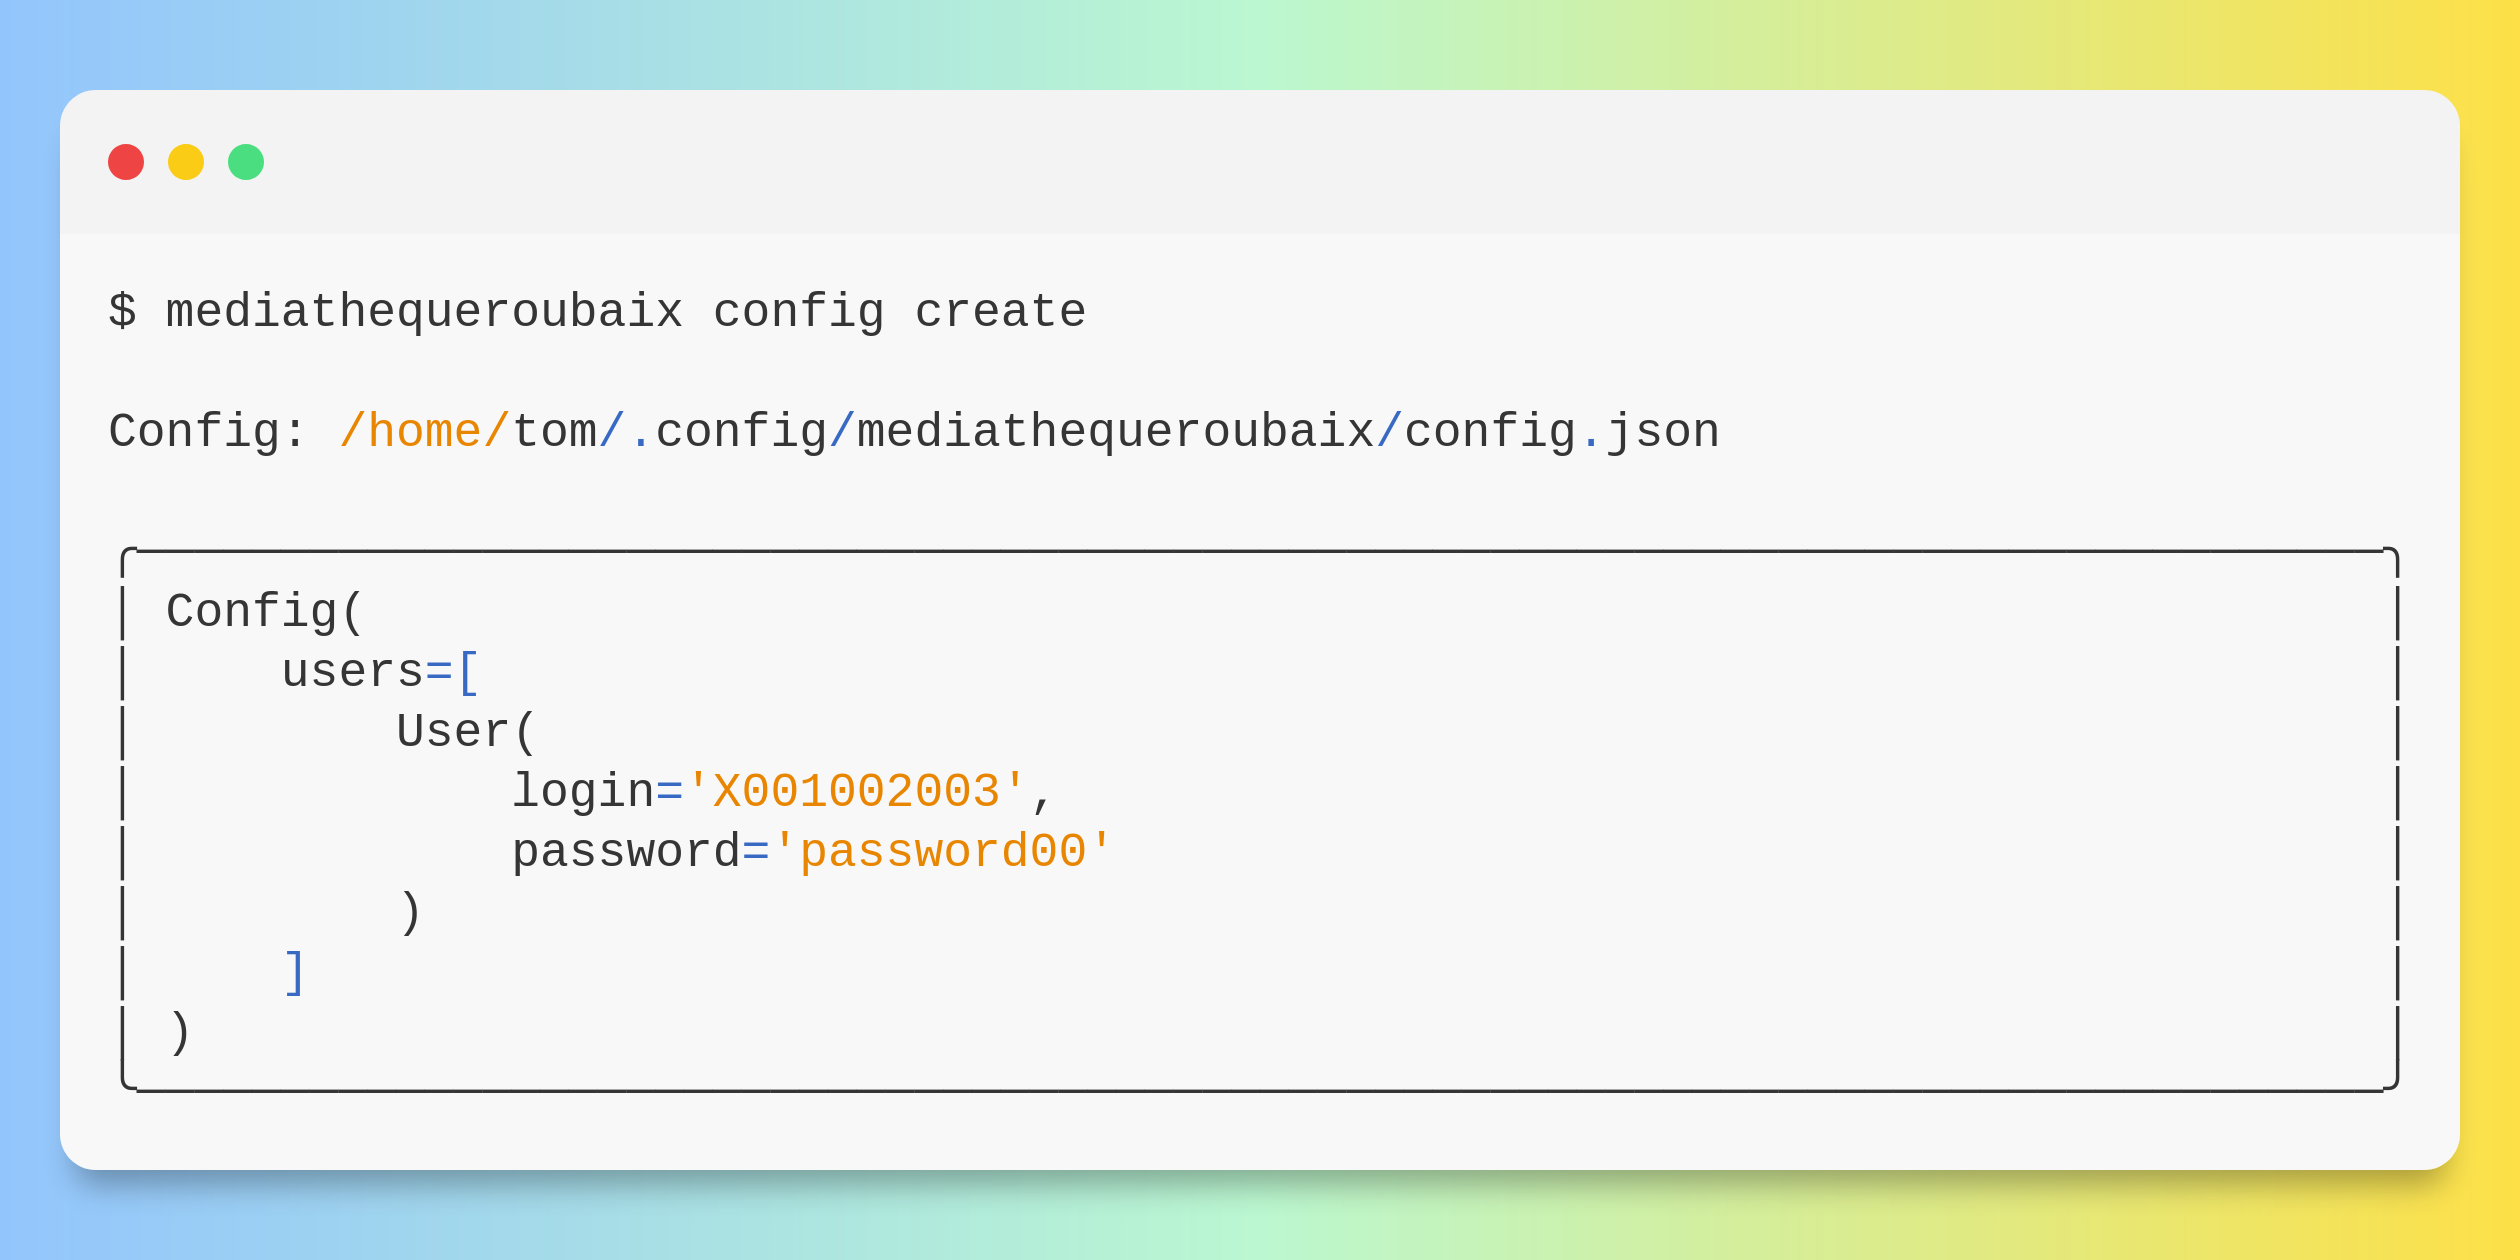
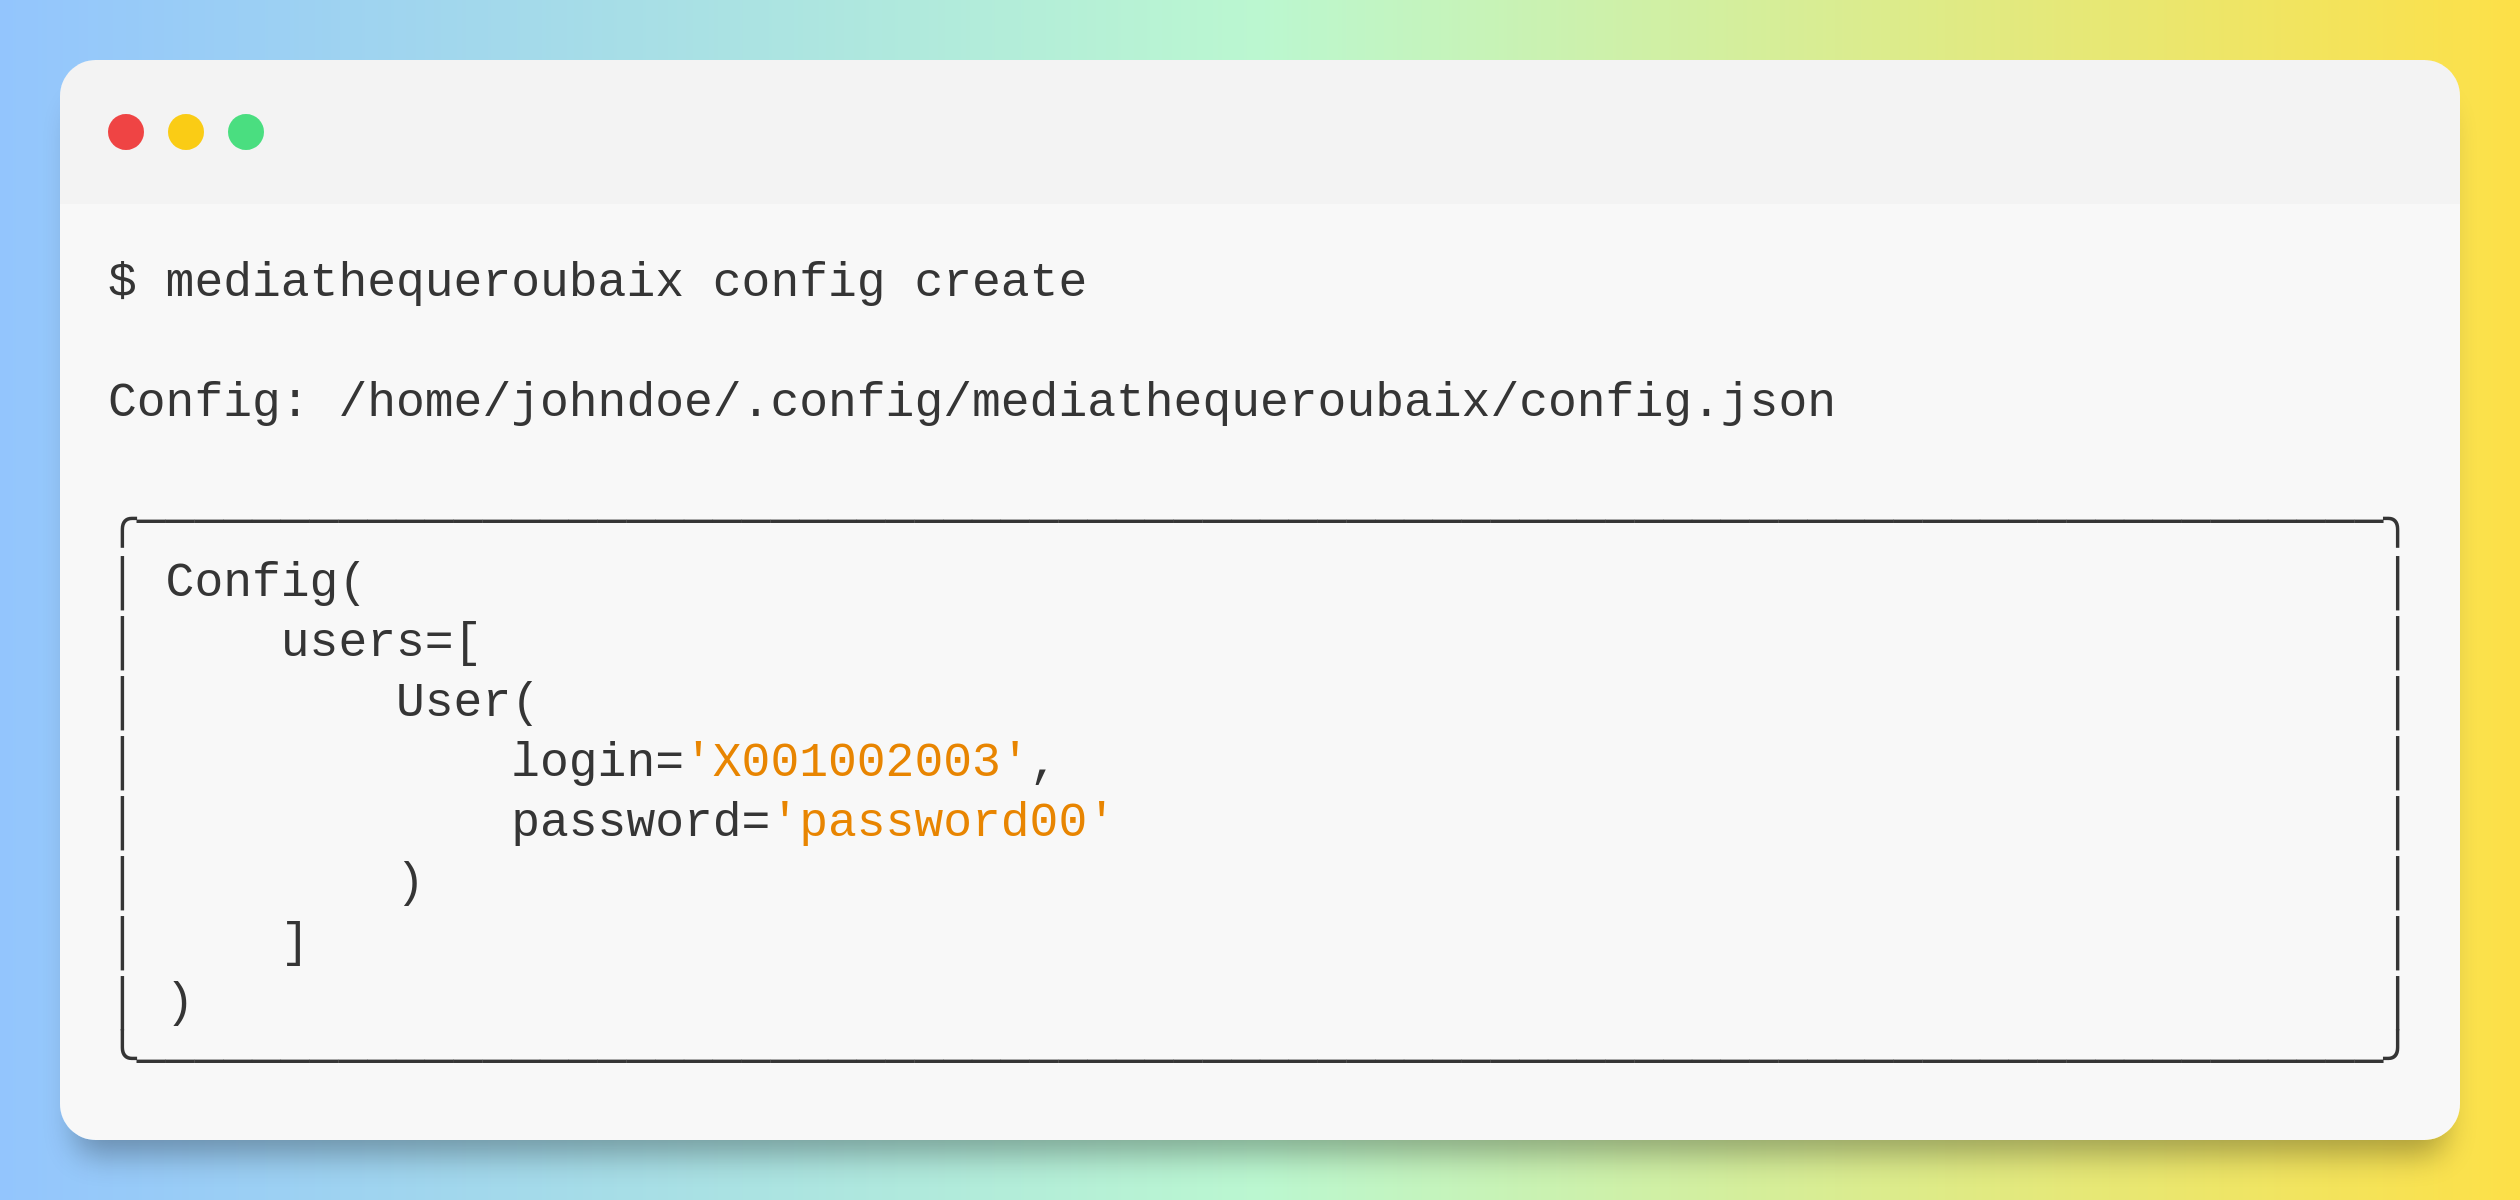
doc: update screenshot and backup terminal output and showcode config

diff --git a/doc/cli_commands_output.md b/doc/cli_commands_output.md
@@ -1,0 +1,58 @@
+```shell
+$ mediathequeroubaix config create
+
+Config: /home/johndoe/.config/mediathequeroubaix/config.json
+
+╭──────────────────────────────────────────────────────────────────────────────╮
+│ Config(                                                                      │
+│     users=[                                                                  │
+│         User(                                                                │
+│             login='X001002003',                                              │
+│             password='password00'                                            │
+│         )                                                                    │
+│     ]                                                                        │
+│ )                                                                            │
+╰──────────────────────────────────────────────────────────────────────────────╯
+```
+
+```shell
+$ mediathequeroubaix config show
+
+Config: /home/johndoe/.config/mediathequeroubaix/config.json
+
+╭──────────────────────────────────────────────────────────────────────────────╮
+│ Config(                                                                      │
+│     users=[                                                                  │
+│         User(                                                                │
+│             login='X001002003',                                              │
+│             password='password00'                                            │
+│         )                                                                    │
+│     ]                                                                        │
+│ )                                                                            │
+╰──────────────────────────────────────────────────────────────────────────────╯
+```
+
+```shell
+$ mediathequeroubaix loans list
+Getting loans of X001002003
+                               John DOE: 2 loans
+┏━━━━━━━┯━━━━━━━━━━━━━━━━━━━━━━━━━━━━━━━━━━━━━━━━━━━━┯━━━━━━━━━━━━┯━━━━━━━━━━━┓
+┃   #   │ Title                                      │  Due date  │ Renewable ┃
+┠───────┼────────────────────────────────────────────┼────────────┼───────────┨
+┃  1/10 │ FP in Python                               │ 27/12/2022 │    ✅     ┃
+┃  2/10 │ Machine Learning for Humans                │ 03/12/2022 │    ❌     ┃
+┗━━━━━━━┷━━━━━━━━━━━━━━━━━━━━━━━━━━━━━━━━━━━━━━━━━━━━┷━━━━━━━━━━━━┷━━━━━━━━━━━┛
+```
+
+```shell
+$ mediathequeroubaix loans renew
+Renewing loans of user 'X001002003'
+Will renew 1 loans for John Doe
+                               John DOE: 2 loans
+┏━━━━━━━┯━━━━━━━━━━━━━━━━━━━━━━━━━━━━━━━━━━━━━━━━━━━━┯━━━━━━━━━━━━┯━━━━━━━━━━━┓
+┃   #   │ Title                                      │  Due date  │ Renewable ┃
+┠───────┼────────────────────────────────────────────┼────────────┼───────────┨
+┃  1/10 │ FP in Python                               │ 17/01/2023 │    ❌     ┃
+┃  2/10 │ Machine Learning for Humans                │ 03/12/2022 │    ❌     ┃
+┗━━━━━━━┷━━━━━━━━━━━━━━━━━━━━━━━━━━━━━━━━━━━━━━━━━━━━┷━━━━━━━━━━━━┷━━━━━━━━━━━┛
+```
